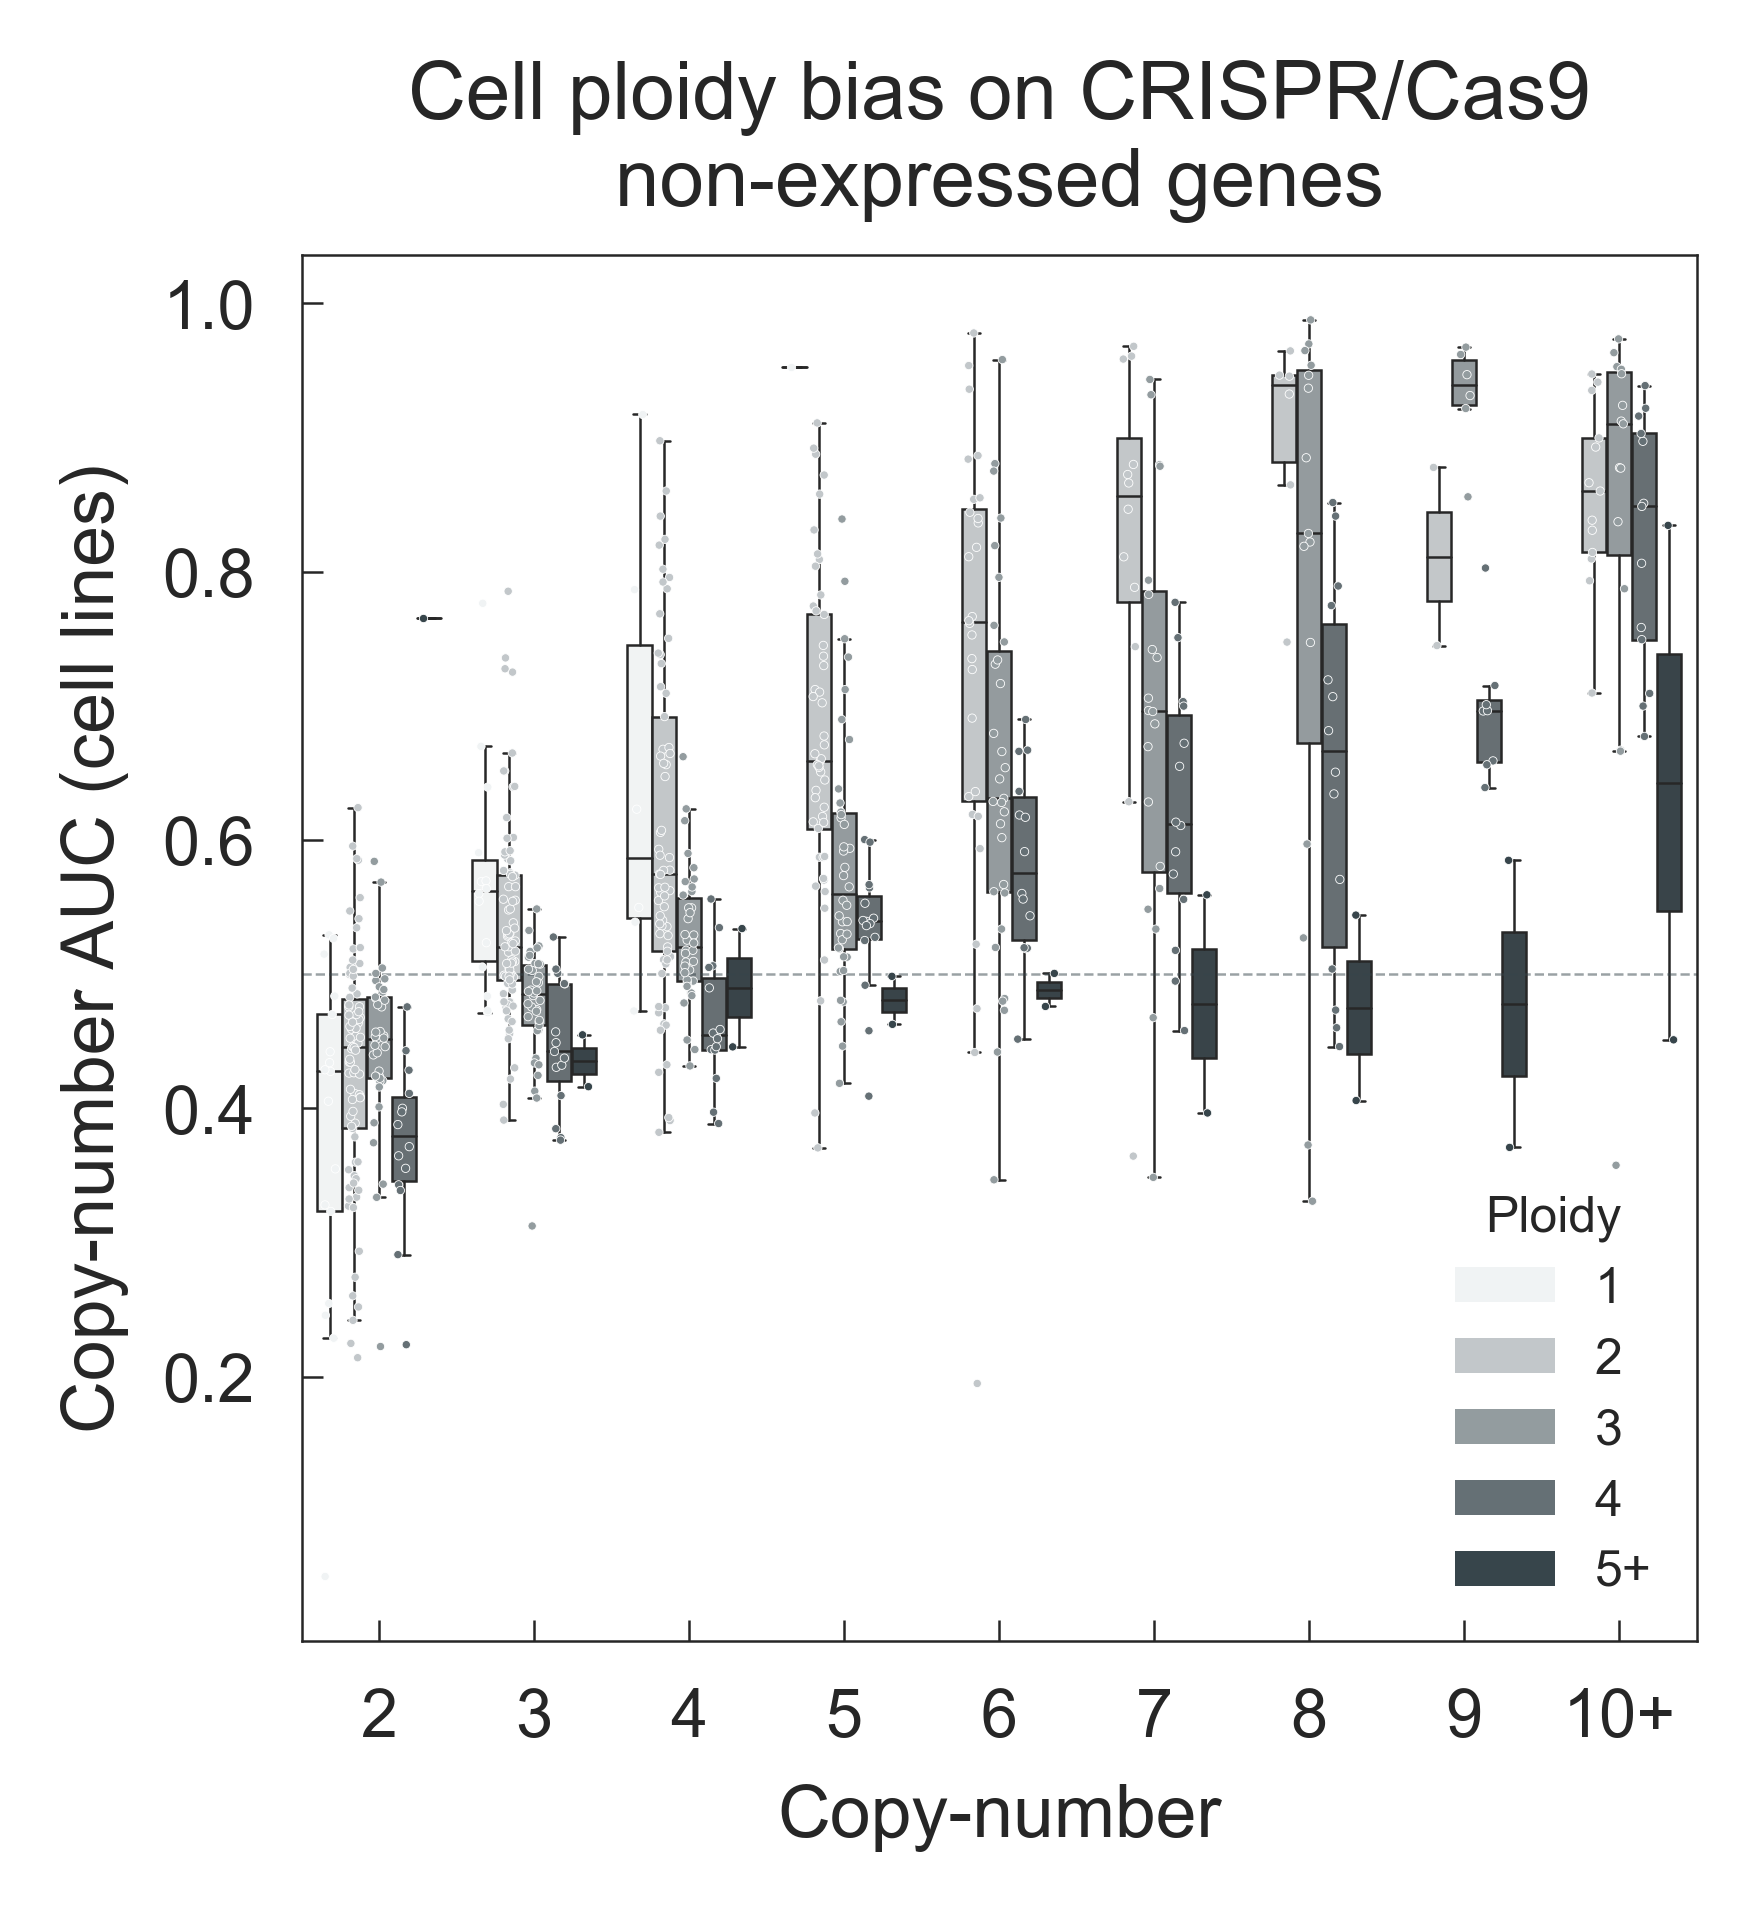
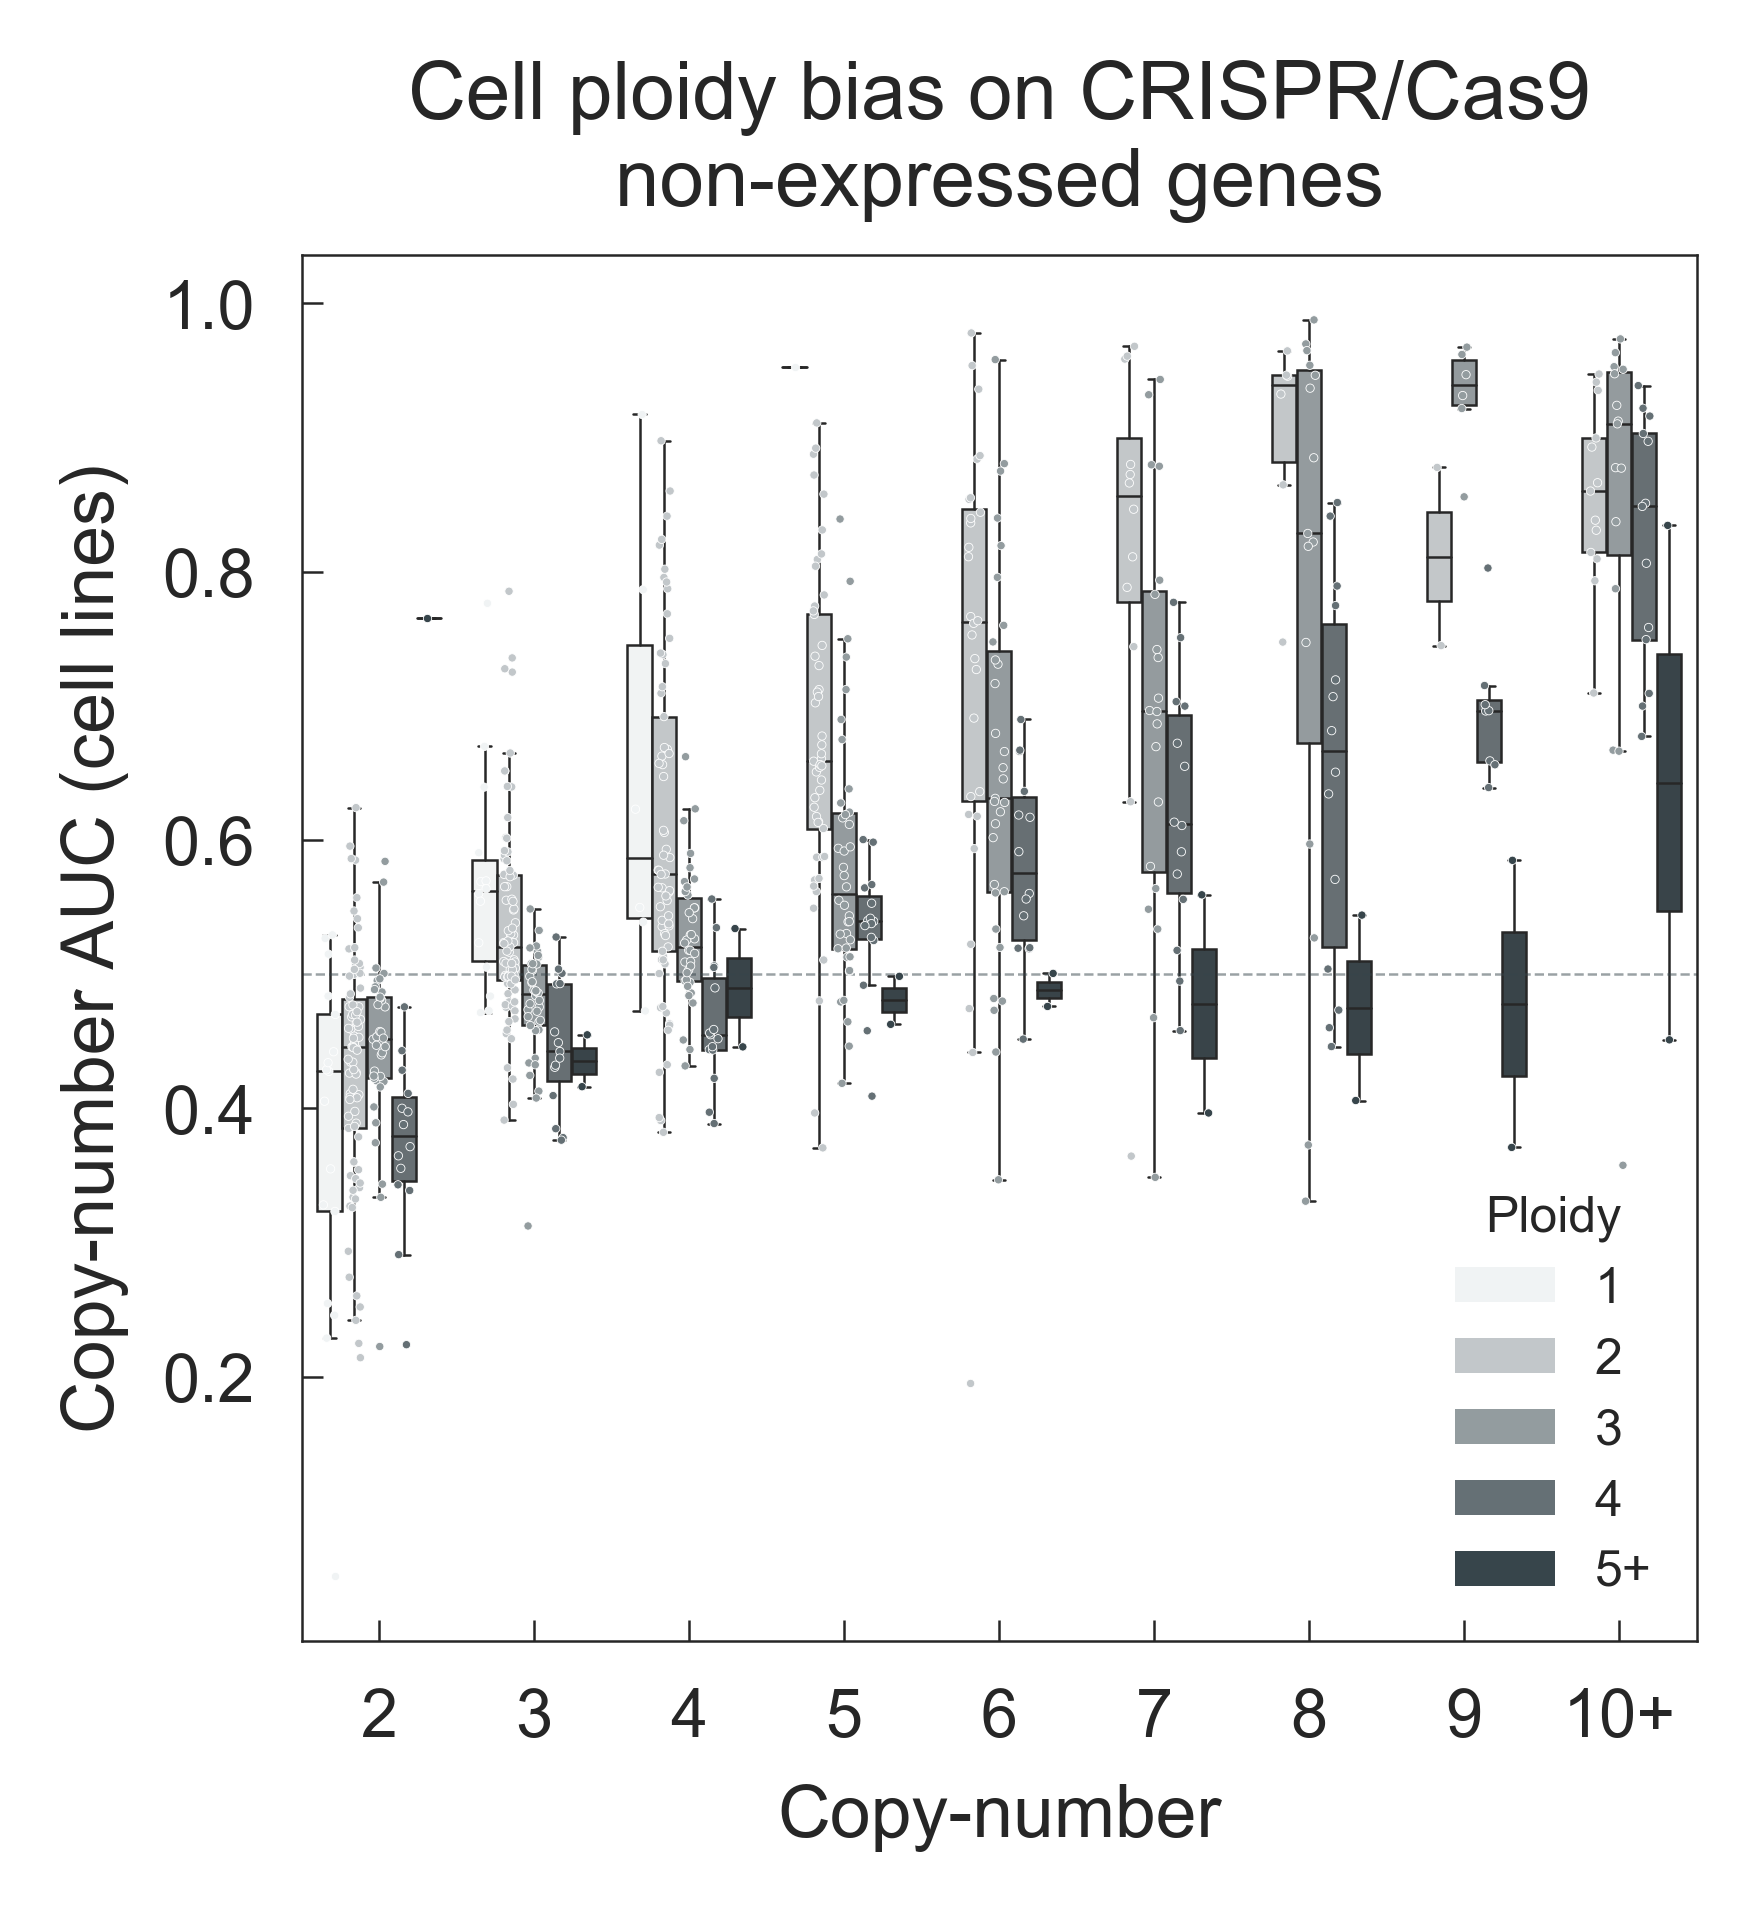
Copy-number bias plotting of corrected crispr fold-changes updated

diff --git a/scripts/crispy/plotting/qc_bias_assessment.py b/scripts/crispy/plotting/qc_bias_assessment.py
@@ -10,9 +10,28 @@ import matplotlib.pyplot as plt
 import matplotlib.patches as mpatches
 from crispy import bipal_dbgd
 from natsort import natsorted
-from crispy.utils import bin_cnv
+from sklearn.metrics import roc_curve, auc
 from crispy.benchmark_plot import plot_cumsum_auc
-from sklearn.metrics import roc_curve, auc, roc_auc_score
+from crispy.utils import bin_cnv, multilabel_roc_auc_score
+
+
+def tissue_coverage(x, y, data, outfile):
+    df = data.assign(ypos=np.arange(data.shape[0]))
+
+    plt.barh(df['ypos'], df[x], .8, color=bipal_dbgd[0], align='center')
+
+    for xx, yy in df[['ypos', x]].values:
+        plt.text(yy - .25, xx, str(yy), color='white', ha='right', va='center', fontsize=6)
+
+    plt.yticks(df['ypos'])
+    plt.yticks(df['ypos'], df[y])
+
+    plt.xlabel('# cell lines')
+    plt.title('CRISPR/Cas9 screen\n(%d cell lines)' % df['Counts'].sum())
+
+    plt.gcf().set_size_inches(2, 3)
+    plt.savefig(outfile, bbox_inches='tight', dpi=600)
+    plt.close('all')
 
 
 def auc_curves(df, geneset, outfile):
@@ -111,11 +130,32 @@ def copy_number_bias_arocs_per_sample(x, y, hue, data, outfile):
     plt.close('all')
 
 
+def arocs_scatter(x, y, data, outfile):
+    g = sns.jointplot(data[x], data[y], color=bipal_dbgd[0], space=0, kind='scatter', joint_kws={'s': 5, 'edgecolor': 'w', 'linewidth': .3}, stat_func=None)
+
+    x_lim, y_lim = g.ax_joint.get_xlim(), g.ax_joint.get_ylim()
+    g.ax_joint.plot(x_lim, y_lim, ls='--', lw=.3, c=bipal_dbgd[0])
+    g.ax_joint.axhline(0.5, ls='-', lw=.1, c=bipal_dbgd[0])
+    g.ax_joint.axvline(0.5, ls='-', lw=.1, c=bipal_dbgd[0])
+
+    g.ax_joint.set_xlim(x_lim)
+    g.ax_joint.set_ylim(y_lim)
+
+    g.set_axis_labels('{} fold-changes AUCs'.format(x), '{} fold-changes AUCs'.format(y))
+
+    plt.gcf().set_size_inches(3, 3)
+    plt.savefig(outfile, bbox_inches='tight', dpi=600)
+    plt.close('all')
+
+
 def main():
     # - Import
     # (non)essential genes
     essential = pd.read_csv('data/gene_sets/curated_BAGEL_essential.csv', sep='\t')['gene'].rename('essential')
     nessential = pd.read_csv('data/gene_sets/curated_BAGEL_nonEssential.csv', sep='\t')['gene'].rename('non-essential')
+
+    # Samplesheet
+    ss = pd.read_csv('data/gdsc/samplesheet.csv', index_col=0)
 
     # Non-expressed genes
     nexp = pickle.load(open('data/gdsc/nexp_pickle.pickle', 'rb'))
@@ -133,6 +173,13 @@ def main():
     # - Overlap samples
     samples = list(set(cnv).intersection(c_gdsc_fc).intersection(c_gdsc_crispy).intersection(nexp))
     print('[INFO] Samples overlap: {}'.format(len(samples)))
+
+    # - Plot: Cancer type coverage
+    tissue_coverage(
+        'Counts', 'Cancer type',
+        ss.loc[samples, 'Cancer Type'].value_counts(ascending=True).reset_index().rename(columns={'index': 'Cancer type', 'Cancer Type': 'Counts'}),
+        'reports/crispy/cancer_types_histogram.png'
+    )
 
     # - Plot: QC Gene-sets AUCs
     auc_stats_fc_ess = auc_curves(c_gdsc_fc[samples], essential, 'reports/crispy/qc_aucs_fc_essential.png')
@@ -153,7 +200,7 @@ def main():
         'reports/crispy/qc_aucs_nonessential.png', 'Non-essential genes'
     )
 
-    # - Plot: Copy-number bias AROCs
+    # - Plot: Copy-number bias in ORIGINAL CRISPR fold-changes (AROCs)
     plot_df = pd.concat([
         pd.DataFrame({c: c_gdsc_fc.reindex(nexp[c])[c] for c in samples if c in nexp}).unstack().rename('fc'),
         cnv[samples].applymap(lambda v: bin_cnv(v, 10)).unstack().rename('cnv')
@@ -165,17 +212,35 @@ def main():
     copy_number_bias_arocs('cnv', 'fc', plot_df, 'reports/crispy/copynumber_bias.png')
 
     # Plot CNV bias per samples
-    plot_df_aucs = pd.DataFrame({
-        c: {
-            t: roc_auc_score(
-                (plot_df.query("sample == '{}'".format(c))['cnv'] == t).astype(int), -plot_df.query("sample == '{}'".format(c))['fc']
-            ) for t in set(plot_df['cnv']) if (sum(plot_df.query("sample == '{}'".format(c))['cnv'] == t) >= 5) and (len(set(plot_df.query("sample == '{}'".format(c))['fc'])) > 1)
-        } for c in set(plot_df['sample'])
-    })
+    plot_df_aucs = pd.DataFrame({c: multilabel_roc_auc_score('cnv', 'fc', plot_df.query("sample == '{}'".format(c)), min_events=5) for c in samples})
     plot_df_aucs = plot_df_aucs.unstack().reset_index().dropna().rename(columns={'level_0': 'sample', 'level_1': 'cnv', 0: 'auc'})
     plot_df_aucs = plot_df_aucs.assign(ploidy=ploidy.loc[plot_df_aucs['sample']].apply(lambda v: bin_cnv(v, 5)).values)
 
     copy_number_bias_arocs_per_sample('cnv', 'auc', 'ploidy', plot_df_aucs, 'reports/crispy/copynumber_bias_per_sample.png')
+
+    # - Plot: Copy-number bias in CORRECTED CRISPR fold-changes (AROCs)
+    plot_df_crispy = pd.concat([
+        pd.DataFrame({c: c_gdsc_crispy.reindex(nexp[c])[c] for c in samples if c in nexp}).unstack().rename('fc'),
+        cnv[samples].applymap(lambda v: bin_cnv(v, 10)).unstack().rename('cnv')
+    ], axis=1).dropna()
+    plot_df_crispy = plot_df_crispy.reset_index().rename(columns={'level_0': 'sample', 'level_1': 'gene'})
+    plot_df_crispy = plot_df_crispy[~plot_df_crispy['cnv'].isin(['0', '1'])]
+    plot_df_crispy = plot_df_crispy.assign(ploidy=ploidy.loc[plot_df_crispy['sample']].values)
+
+    # Plot overall CNV bias
+    copy_number_bias_arocs('cnv', 'fc', plot_df_crispy, 'reports/crispy/copynumber_bias_corrected.png')
+
+    # Plot CNV bias per samples
+    plot_df_crispy_aucs = pd.DataFrame({c: multilabel_roc_auc_score('cnv', 'fc', plot_df_crispy.query("sample == '{}'".format(c)), min_events=5) for c in samples})
+    plot_df_crispy_aucs = plot_df_crispy_aucs.unstack().reset_index().dropna().rename(columns={'level_0': 'sample', 'level_1': 'cnv', 0: 'auc'})
+    plot_df_crispy_aucs = plot_df_crispy_aucs.assign(ploidy=ploidy.loc[plot_df_crispy_aucs['sample']].apply(lambda v: bin_cnv(v, 5)).values)
+
+    copy_number_bias_arocs_per_sample('cnv', 'auc', 'ploidy', plot_df_crispy_aucs, 'reports/crispy/copynumber_bias_corrected_per_sample.png')
+
+    # - Compare AROCs before and after correction
+    arocs_scatter('Original', 'Corrected', pd.concat([
+        plot_df_crispy_aucs.set_index(['sample', 'cnv'])['auc'].rename('Corrected'), plot_df_aucs.set_index(['sample', 'cnv'])['auc'].rename('Original')
+    ], axis=1), 'reports/crispy/copynumber_bias_arocs_scatter.png')
 
 
 if __name__ == '__main__':

diff --git a/crispy/utils.py b/crispy/utils.py
@@ -1,6 +1,15 @@
 #!/usr/bin/env python
 # Copyright (C) 2018 Emanuel Goncalves
 
+from sklearn.metrics import roc_auc_score
+
 
 def bin_cnv(value, thresold):
     return str(int(value)) if value < thresold else '%s+' % thresold
+
+
+def multilabel_roc_auc_score(y_true, y_pred, data, min_events=1, invert=-1):
+    return {
+        t: roc_auc_score((data[y_true] == t).astype(int), invert * data[y_pred])
+        for t in set(data[y_true]) if ((data[y_true] == t).sum() >= min_events) and (len(set(data[y_true])) > 1)
+    }
